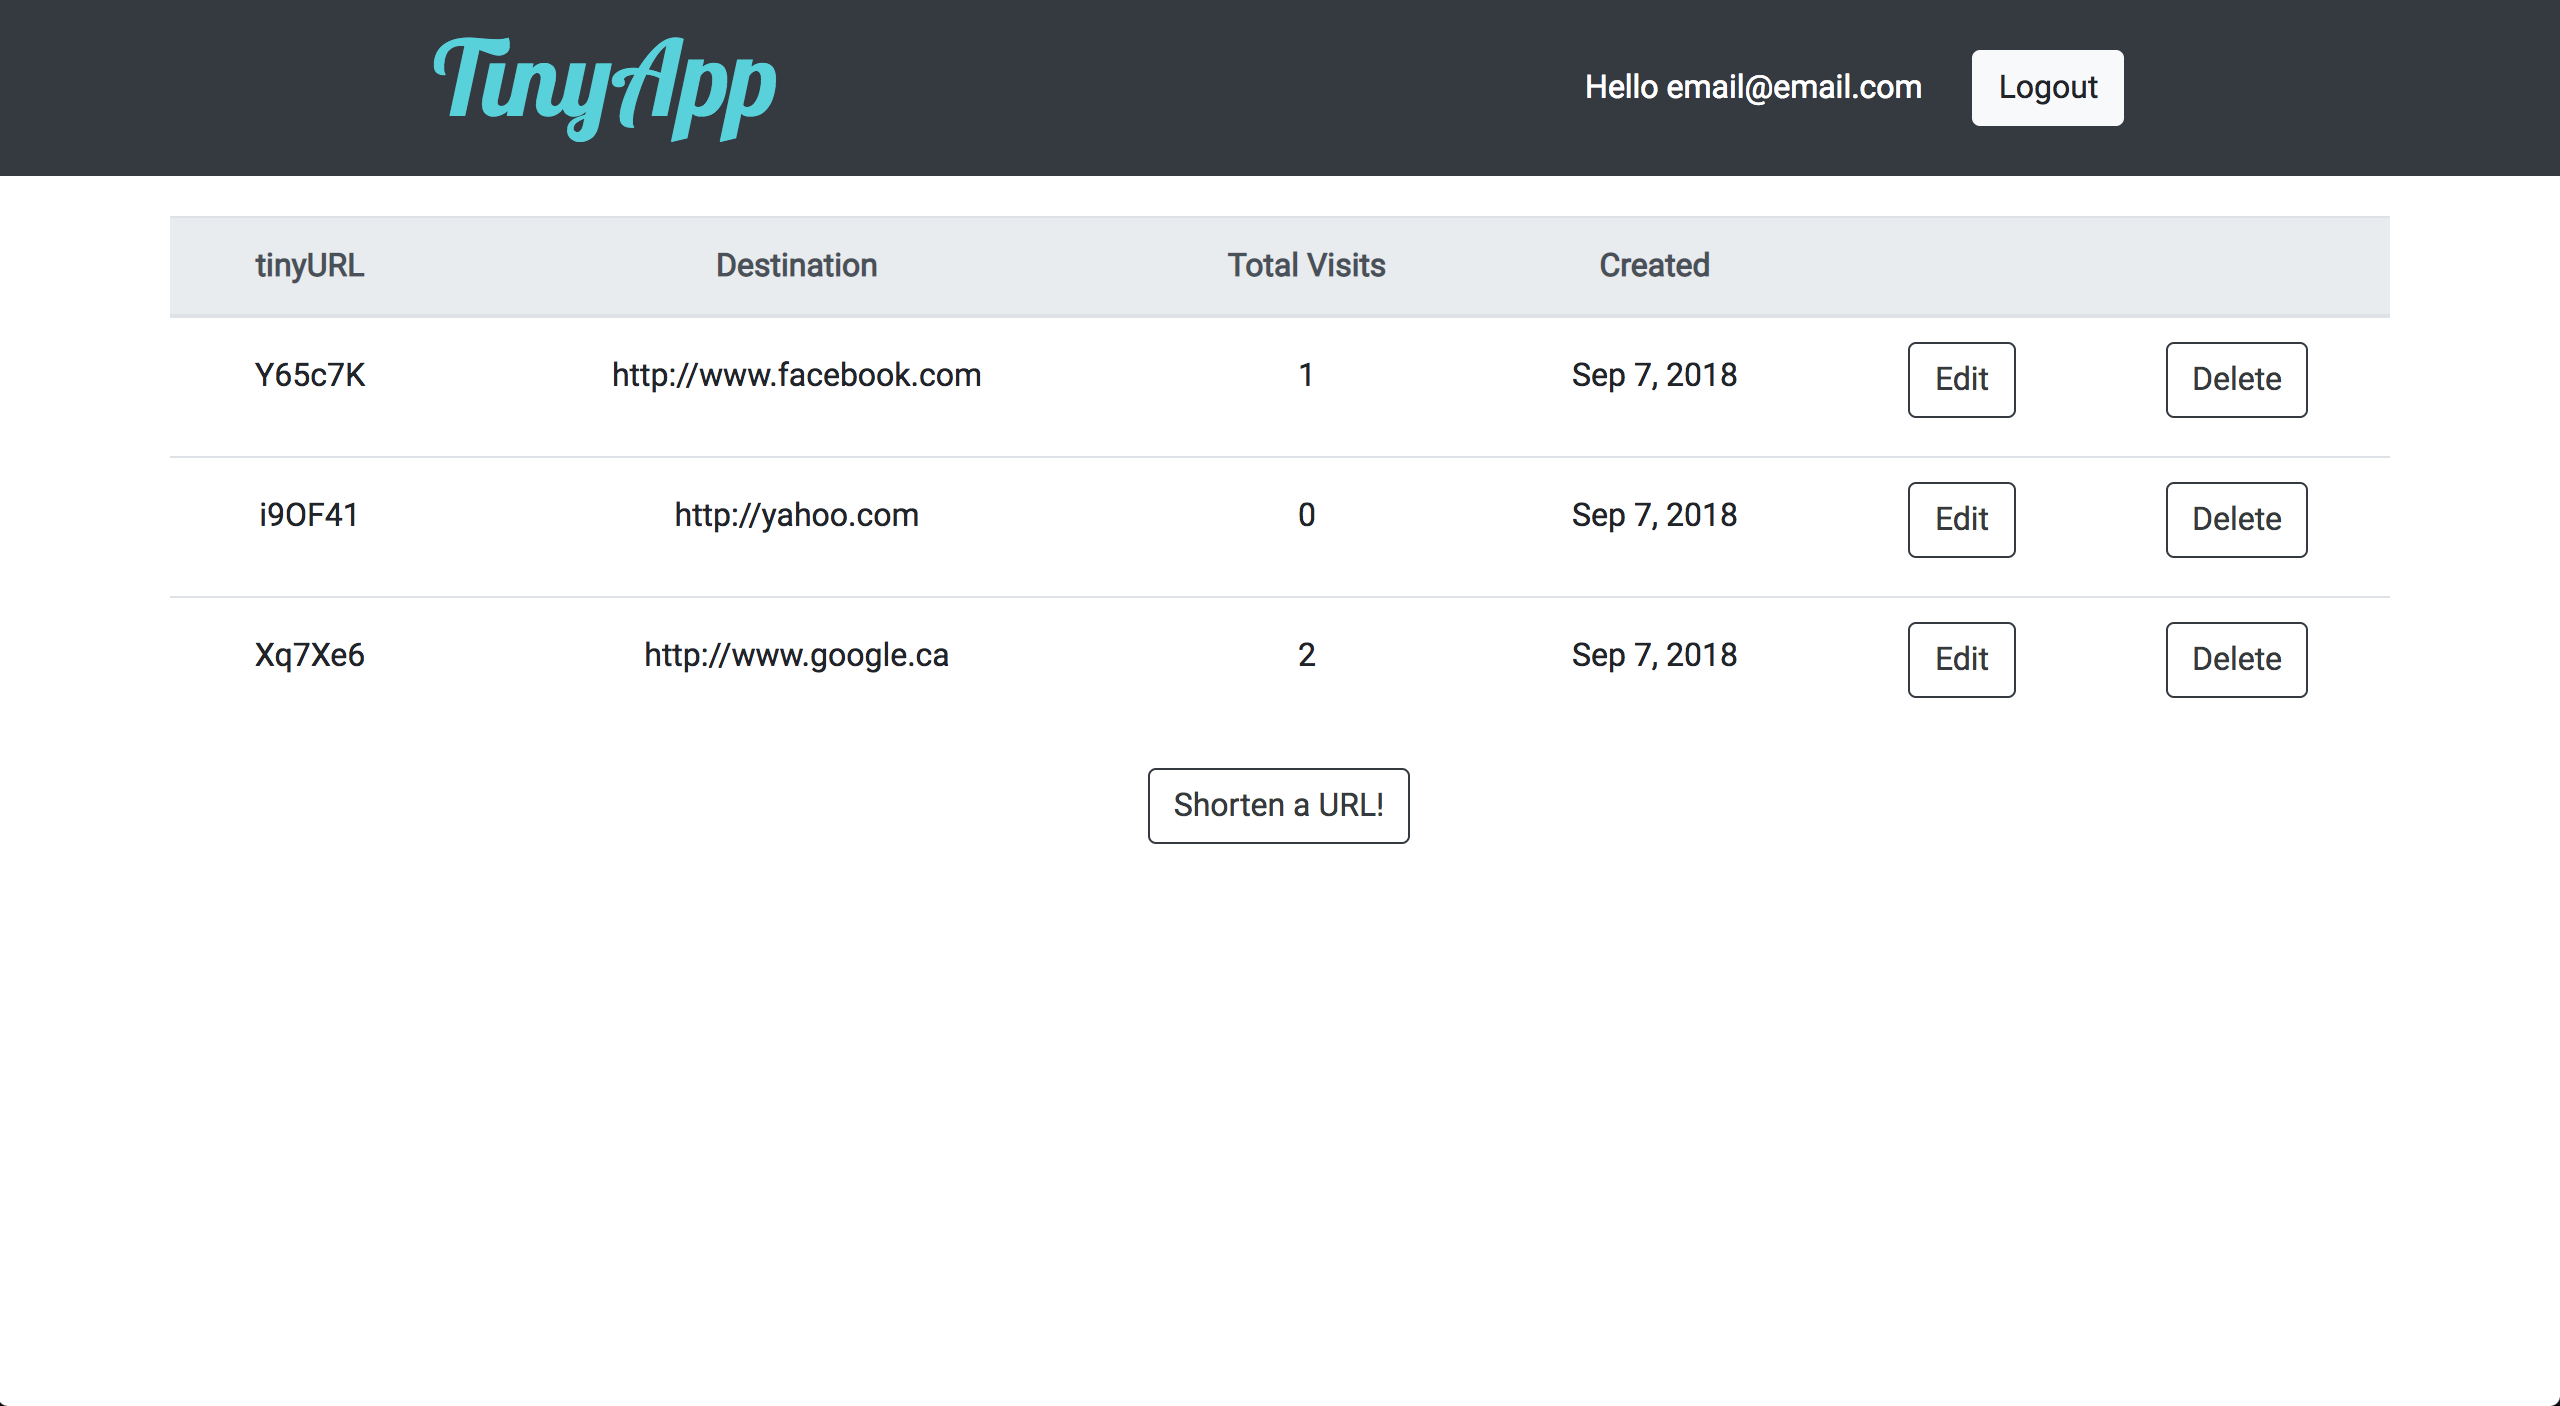
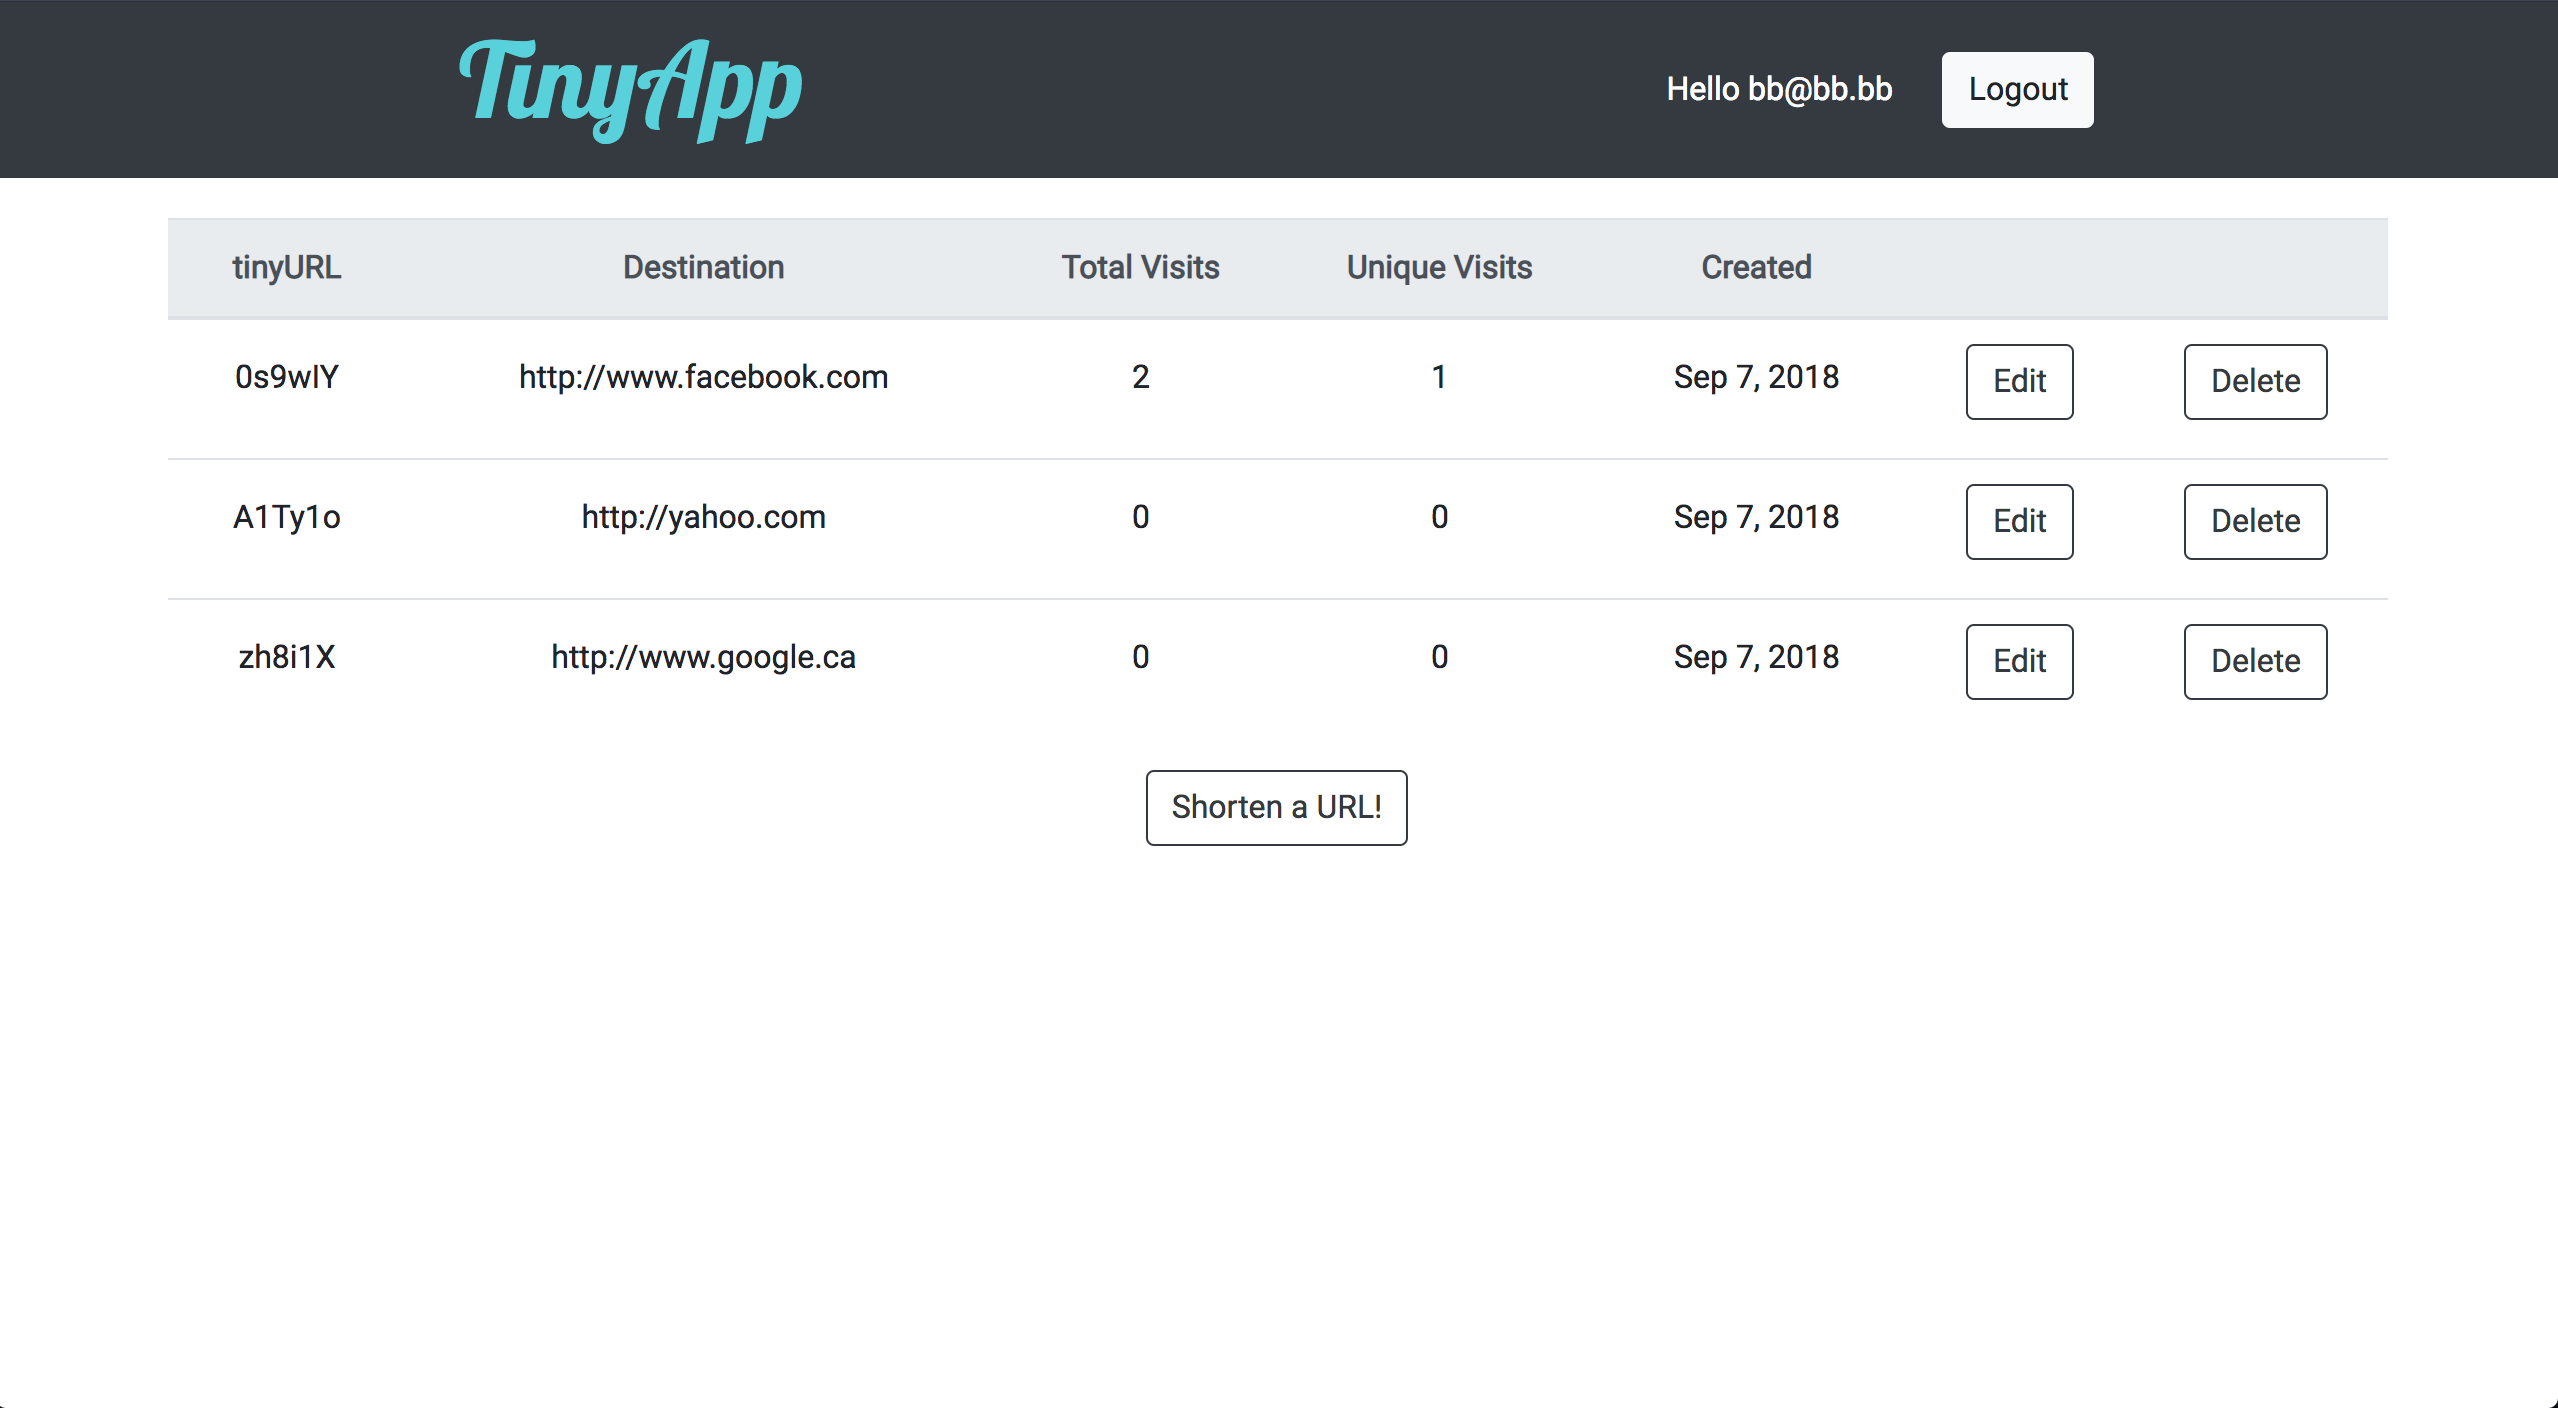
updated screenshots and readme

diff --git a/README.md b/README.md
@@ -6,9 +6,10 @@ tinyAPP is a nodejs application powered by Express and EJS that provides a short
 
 -------
 
-Users can create, share, edit, and delete their tinyURLs. Stats such as amount of times a tinyURL has been visited and the date the tinyURL was created are tracked as well.
+Users can create, share, edit, and delete their tinyURLs. Stats such as amount of times a tinyURL has been visited and the date the tinyURL was created are tracked, along with unique visits and timestamps everytime the tinyURL was visited.
 
 ![tinyURLs List Page](https://github.com/ChewyDinosaur/tinyapp-url-shortener/blob/master/docs/url-list-page.png)
+![tinyURLs Edit Page](https://github.com/ChewyDinosaur/tinyapp-url-shortener/blob/master/docs/url-edit-page.png)
 
 ## Dependencies
 
